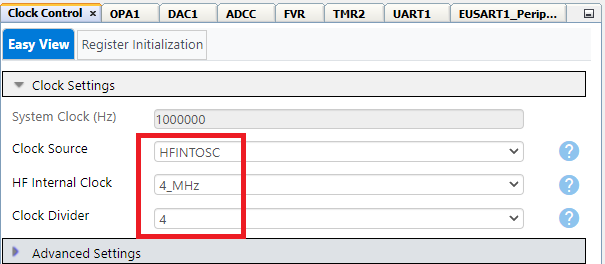
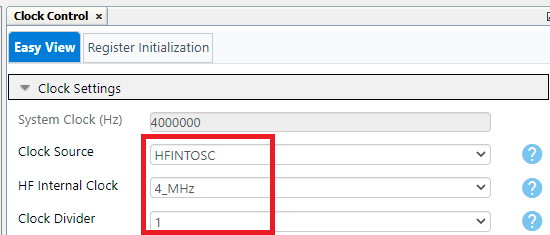
MPAE-14843 Firmware Update

diff --git a/pic16f17146-force-sensing-resistor-interface-mplab-mcc.X/fsr_application.c b/pic16f17146-force-sensing-resistor-interface-mplab-mcc.X/fsr_application.c
@@ -22,7 +22,7 @@
 #include "fsr_application.h"
 
 // Uncomment below #define for graphical view of the ADCC results
-#define GRAPH_FSR
+//#define GRAPH_FSR
 
 #ifdef GRAPH_FSR 
 #define  TIMER2_PERIOD (17)       // For 100ms Timer period
@@ -35,6 +35,7 @@
 #define END_OF_FRAME (0xA0)
 
 #define ADCC_MAX_COUNT  (1650) // ADCC output varies from 0 to 1.65 (Vdd/2), ADCC reference is 2.048V
+#define HARDWARE_FAULT_COUNT (ADCC_MAX_COUNT - 15) // Hardware fault will be raised once it crosses ~99% of ADCC full count
 
 adccConversionState_t adccConversion = INITIATE;
 int16_t adccBaseValue = 0;
@@ -60,7 +61,7 @@ void FSRApplication_Task(void)
 
         adccCount = ADCC_GetFilterValue();
 
-        if ((adccCount <= 0) || (adccCount >= ADCC_MAX_COUNT))
+        if ((adccCount <= 0) || (adccCount >= HARDWARE_FAULT_COUNT))
         {
             printf("ADC Count : %d \r\n", adccCount);
             printf("Hardware Fault \r\n\n");

diff --git a/pic16f17146-force-sensing-resistor-interface-mplab-mcc.X/mcc_generated_files/system/src/clock.c b/pic16f17146-force-sensing-resistor-interface-mplab-mcc.X/mcc_generated_files/system/src/clock.c
@@ -37,8 +37,8 @@
 void CLOCK_Initialize(void)
 {
     // Set the CLOCK CONTROL module to the options selected in the user interface.
-    // NDIV 4; NOSC HFINTOSC; 
-    OSCCON1 = 0x62;
+    // NDIV 1; NOSC HFINTOSC; 
+    OSCCON1 = 0x60;
     // SOSCPWR High power; CSWHOLD may proceed; 
     OSCCON3 = 0x40;
     // EXTOEN disabled; HFOEN disabled; MFOEN disabled; LFOEN disabled; SOSCEN disabled; ADOEN disabled; 

diff --git a/pic16f17146-force-sensing-resistor-interface-mplab-mcc.X/mcc_generated_files/adcc/src/adcc.c b/pic16f17146-force-sensing-resistor-interface-mplab-mcc.X/mcc_generated_files/adcc/src/adcc.c
@@ -95,8 +95,8 @@ void ADCC_Initialize(void)
     ADREF = 0x3;
     //ADACT TMR2; 
     ADACT = 0x4;
-    //ADCCS FOSC/2; 
-    ADCLK = 0x0;
+    //ADCCS FOSC/4; 
+    ADCLK = 0x1;
     //GO_nDONE undefined; ADIC differential mode; ADFM right justified, two's compliment; ADCS FOSC; ADCONT disabled; ADON enabled; 
     ADCON0 = 0x86;
     

diff --git a/pic16f17146-force-sensing-resistor-interface-mplab-mcc.X/mcc_generated_files/uart/src/eusart1.c b/pic16f17146-force-sensing-resistor-interface-mplab-mcc.X/mcc_generated_files/uart/src/eusart1.c
@@ -100,8 +100,8 @@ void EUSART1_Initialize(void)
     RC1STA = 0x90; 
     //TX9D 0x0; BRGH hi_speed; SENDB sync_break_complete; SYNC asynchronous; TXEN enabled; TX9 8-bit; CSRC client; 
     TX1STA = 0x26; 
-    //SPBRGL 25; 
-    SP1BRGL = 0x19; 
+    //SPBRGL 103; 
+    SP1BRGL = 0x67; 
     //SPBRGH 0; 
     SP1BRGH = 0x0; 
 

diff --git a/pic16f17146-force-sensing-resistor-interface-mplab-mcc.X/mcc_generated_files/system/clock.h b/pic16f17146-force-sensing-resistor-interface-mplab-mcc.X/mcc_generated_files/system/clock.h
@@ -36,7 +36,7 @@
 #define	CLOCK_H
 
 #ifndef _XTAL_FREQ
-#define _XTAL_FREQ 1000000
+#define _XTAL_FREQ 4000000
 #endif
 
 /**

diff --git a/README.md b/README.md
@@ -7,7 +7,7 @@
 This example aims to interface the Force Sensing Resistor(FSR) using the rich set of analog peripherals such as Operational Amplifier (OPA), 12-bit differential Analog-to-Digital Converter with Computation(ADCC), Digital-to-Analog Converter(DAC) and Fixed Voltage Reference(FVR) of PIC16F17146 microcontroller. The use of internal OPA and other analog peripherals helps to reduce BOM cost and minimizes number of external components used.
 
 ## Related Documentation
-- [PIC16F17146 Product Page](https://www.microchip.com/en-us/product/PIC16F17146)
+- [PIC16F17146 Product Page](https://www.microchip.com/product/PIC16F17146)
 - [PIC16F17146 Data Sheet](https://www.microchip.com/DS40002343)
 
 ## Software Used
@@ -17,8 +17,8 @@ This example aims to interface the Force Sensing Resistor(FSR) using the rich se
 - Microchip PIC16F1xxxx Series Device Support [v1.13.178 or newer](https://packs.download.microchip.com/)
 
 ## Hardware Used
-- [PIC16F17146 Curiosity Nano Board](https://www.microchip.com/en-us/development-tool/EV72J15A)
-- [Curiosity Nano base board](https://www.microchip.com/en-us/development-tool/AC164162)
+- [PIC16F17146 Curiosity Nano Board](https://www.microchip.com/development-tool/EV72J15A)
+- [Curiosity Nano base board](https://www.microchip.com/development-tool/AC164162)
 - [Proto Click](https://www.mikroe.com/proto-click)
 - [FSR 400 Series](https://www.interlinkelectronics.com/fsr-400-series)
 - Resistor (1.5kohm)
@@ -108,7 +108,7 @@ Open the Data Visualizer tool which is available as a plugin in MPLAB X IDE.
 
 ![data-visualizer-2](images/data-visualizer-2.png)
 
-7.  Select source of the plot as COM7 port.
+7.  Select source of the plot as selected CNANO port (in our case its COM16).
 8.	Add plot for ADCC count and Force Applied.
 
 ![data-visualizer-3](images/data-visualizer-3.png)
